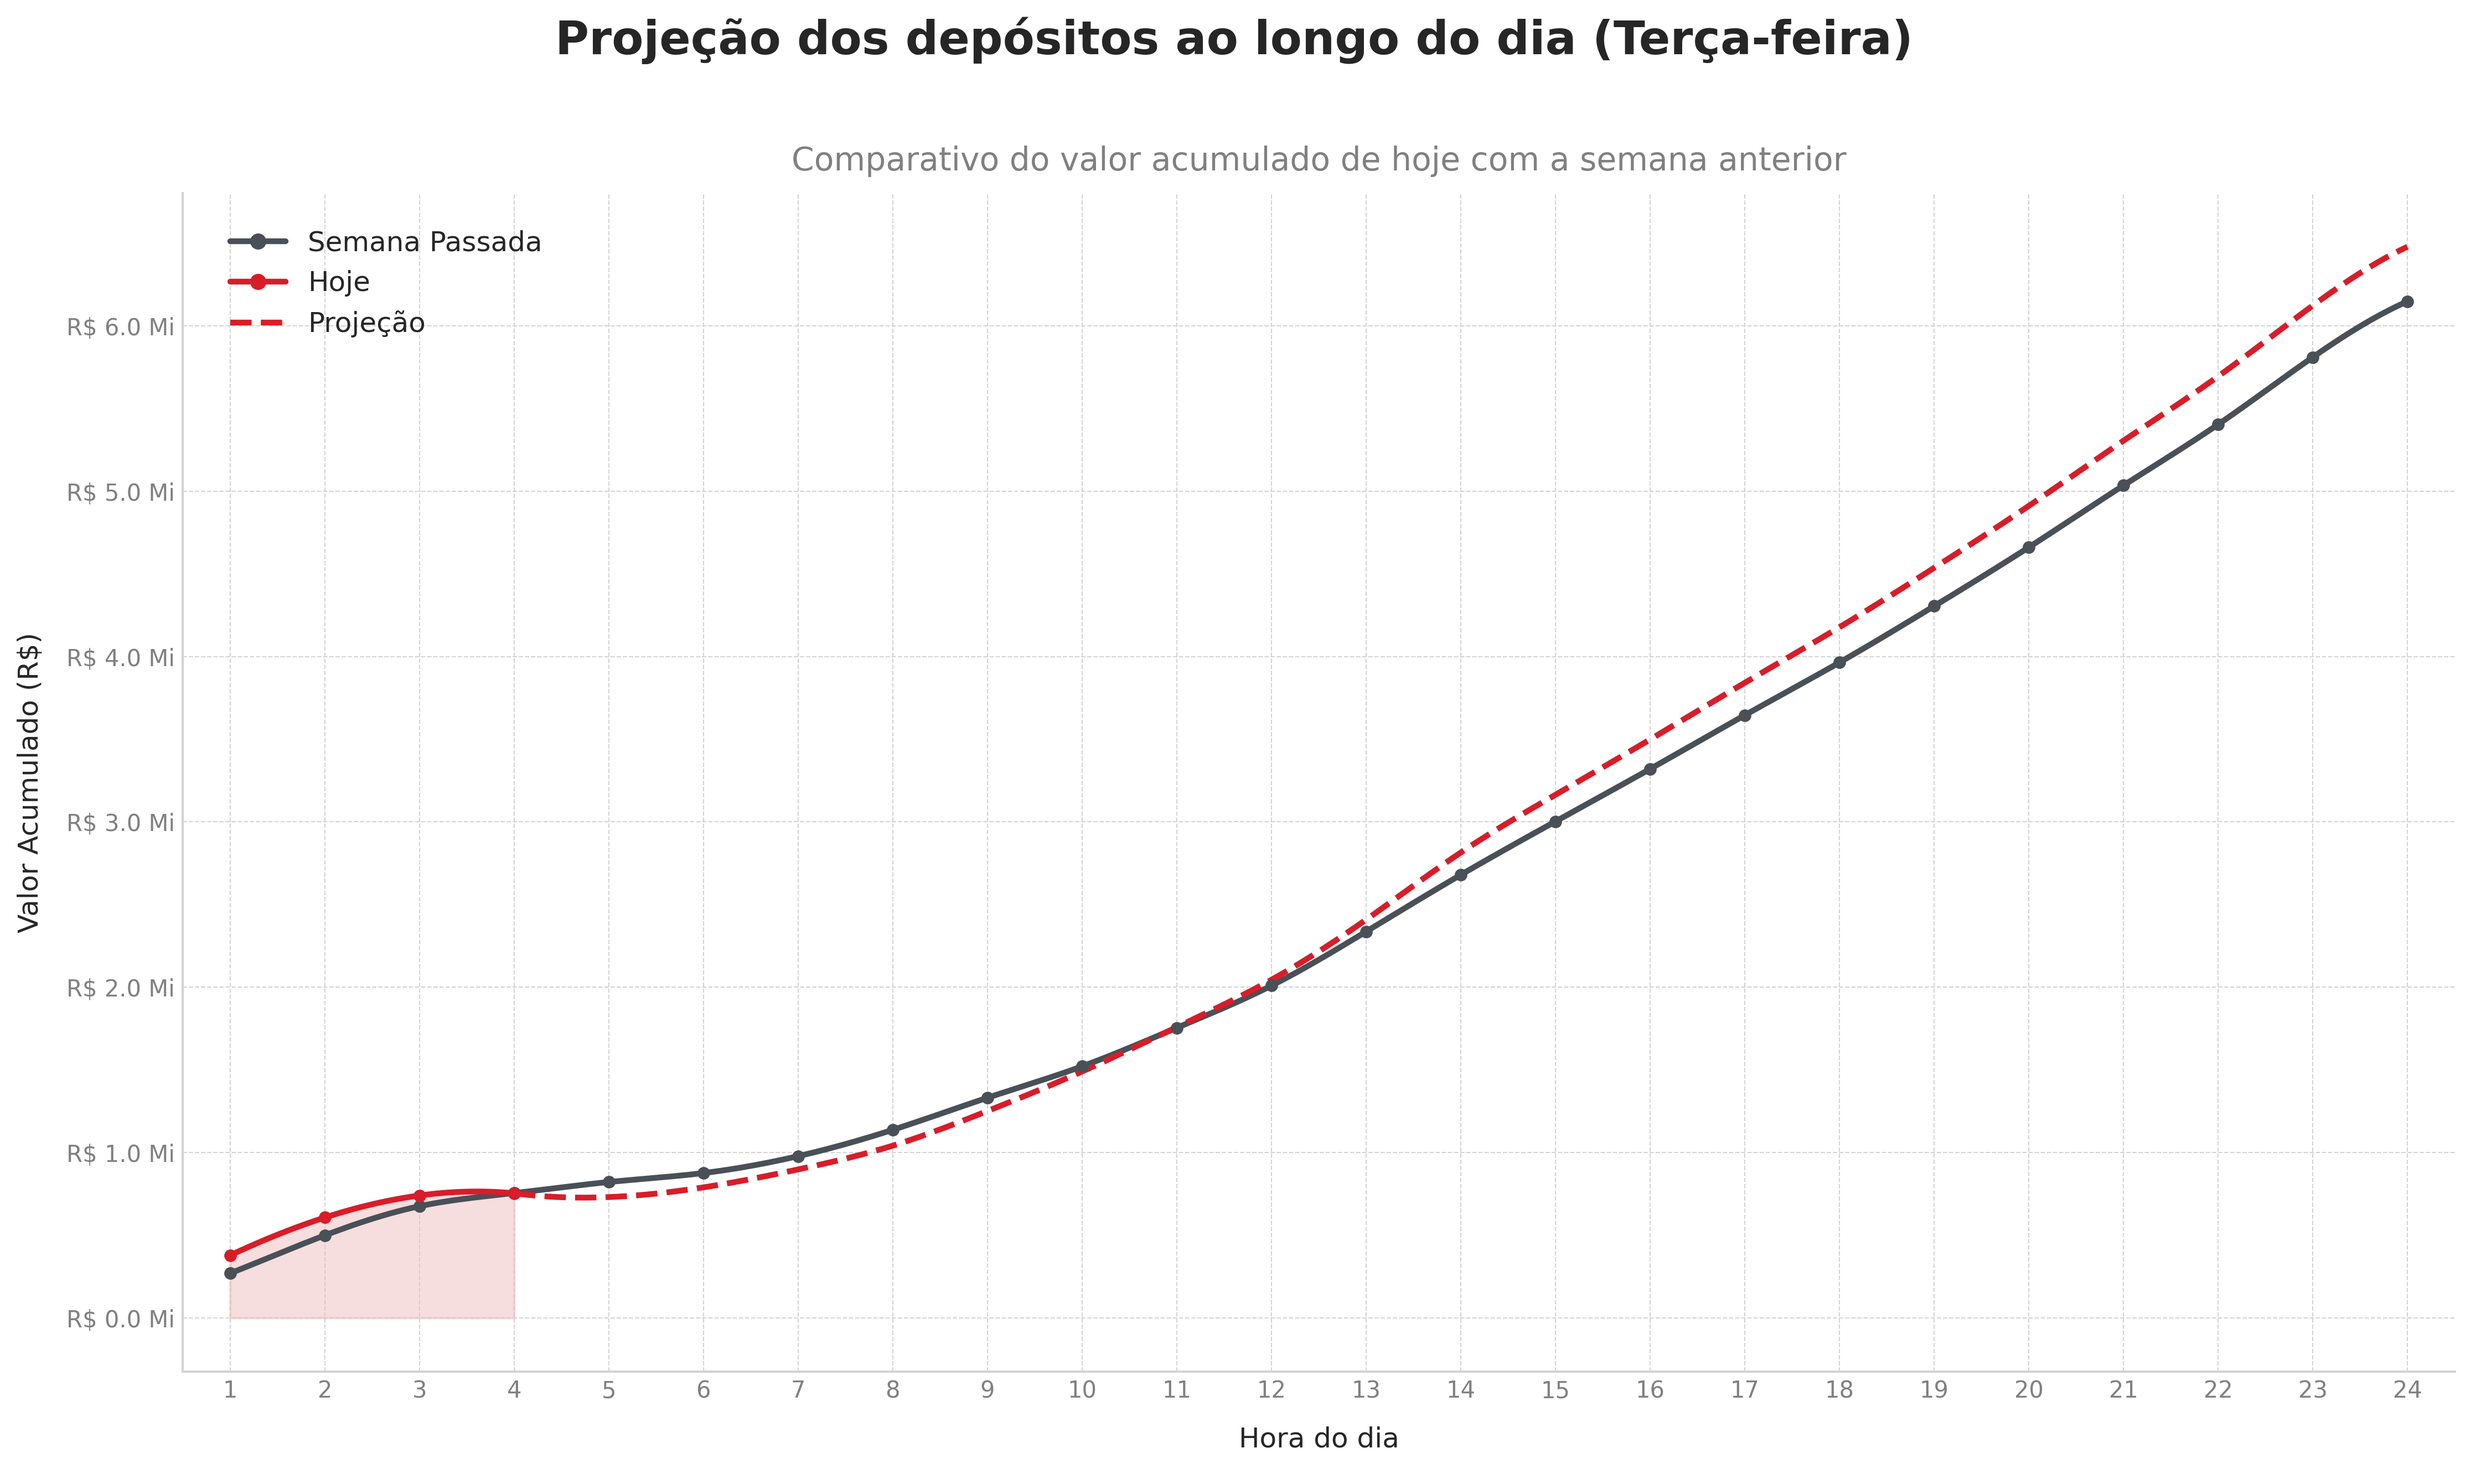
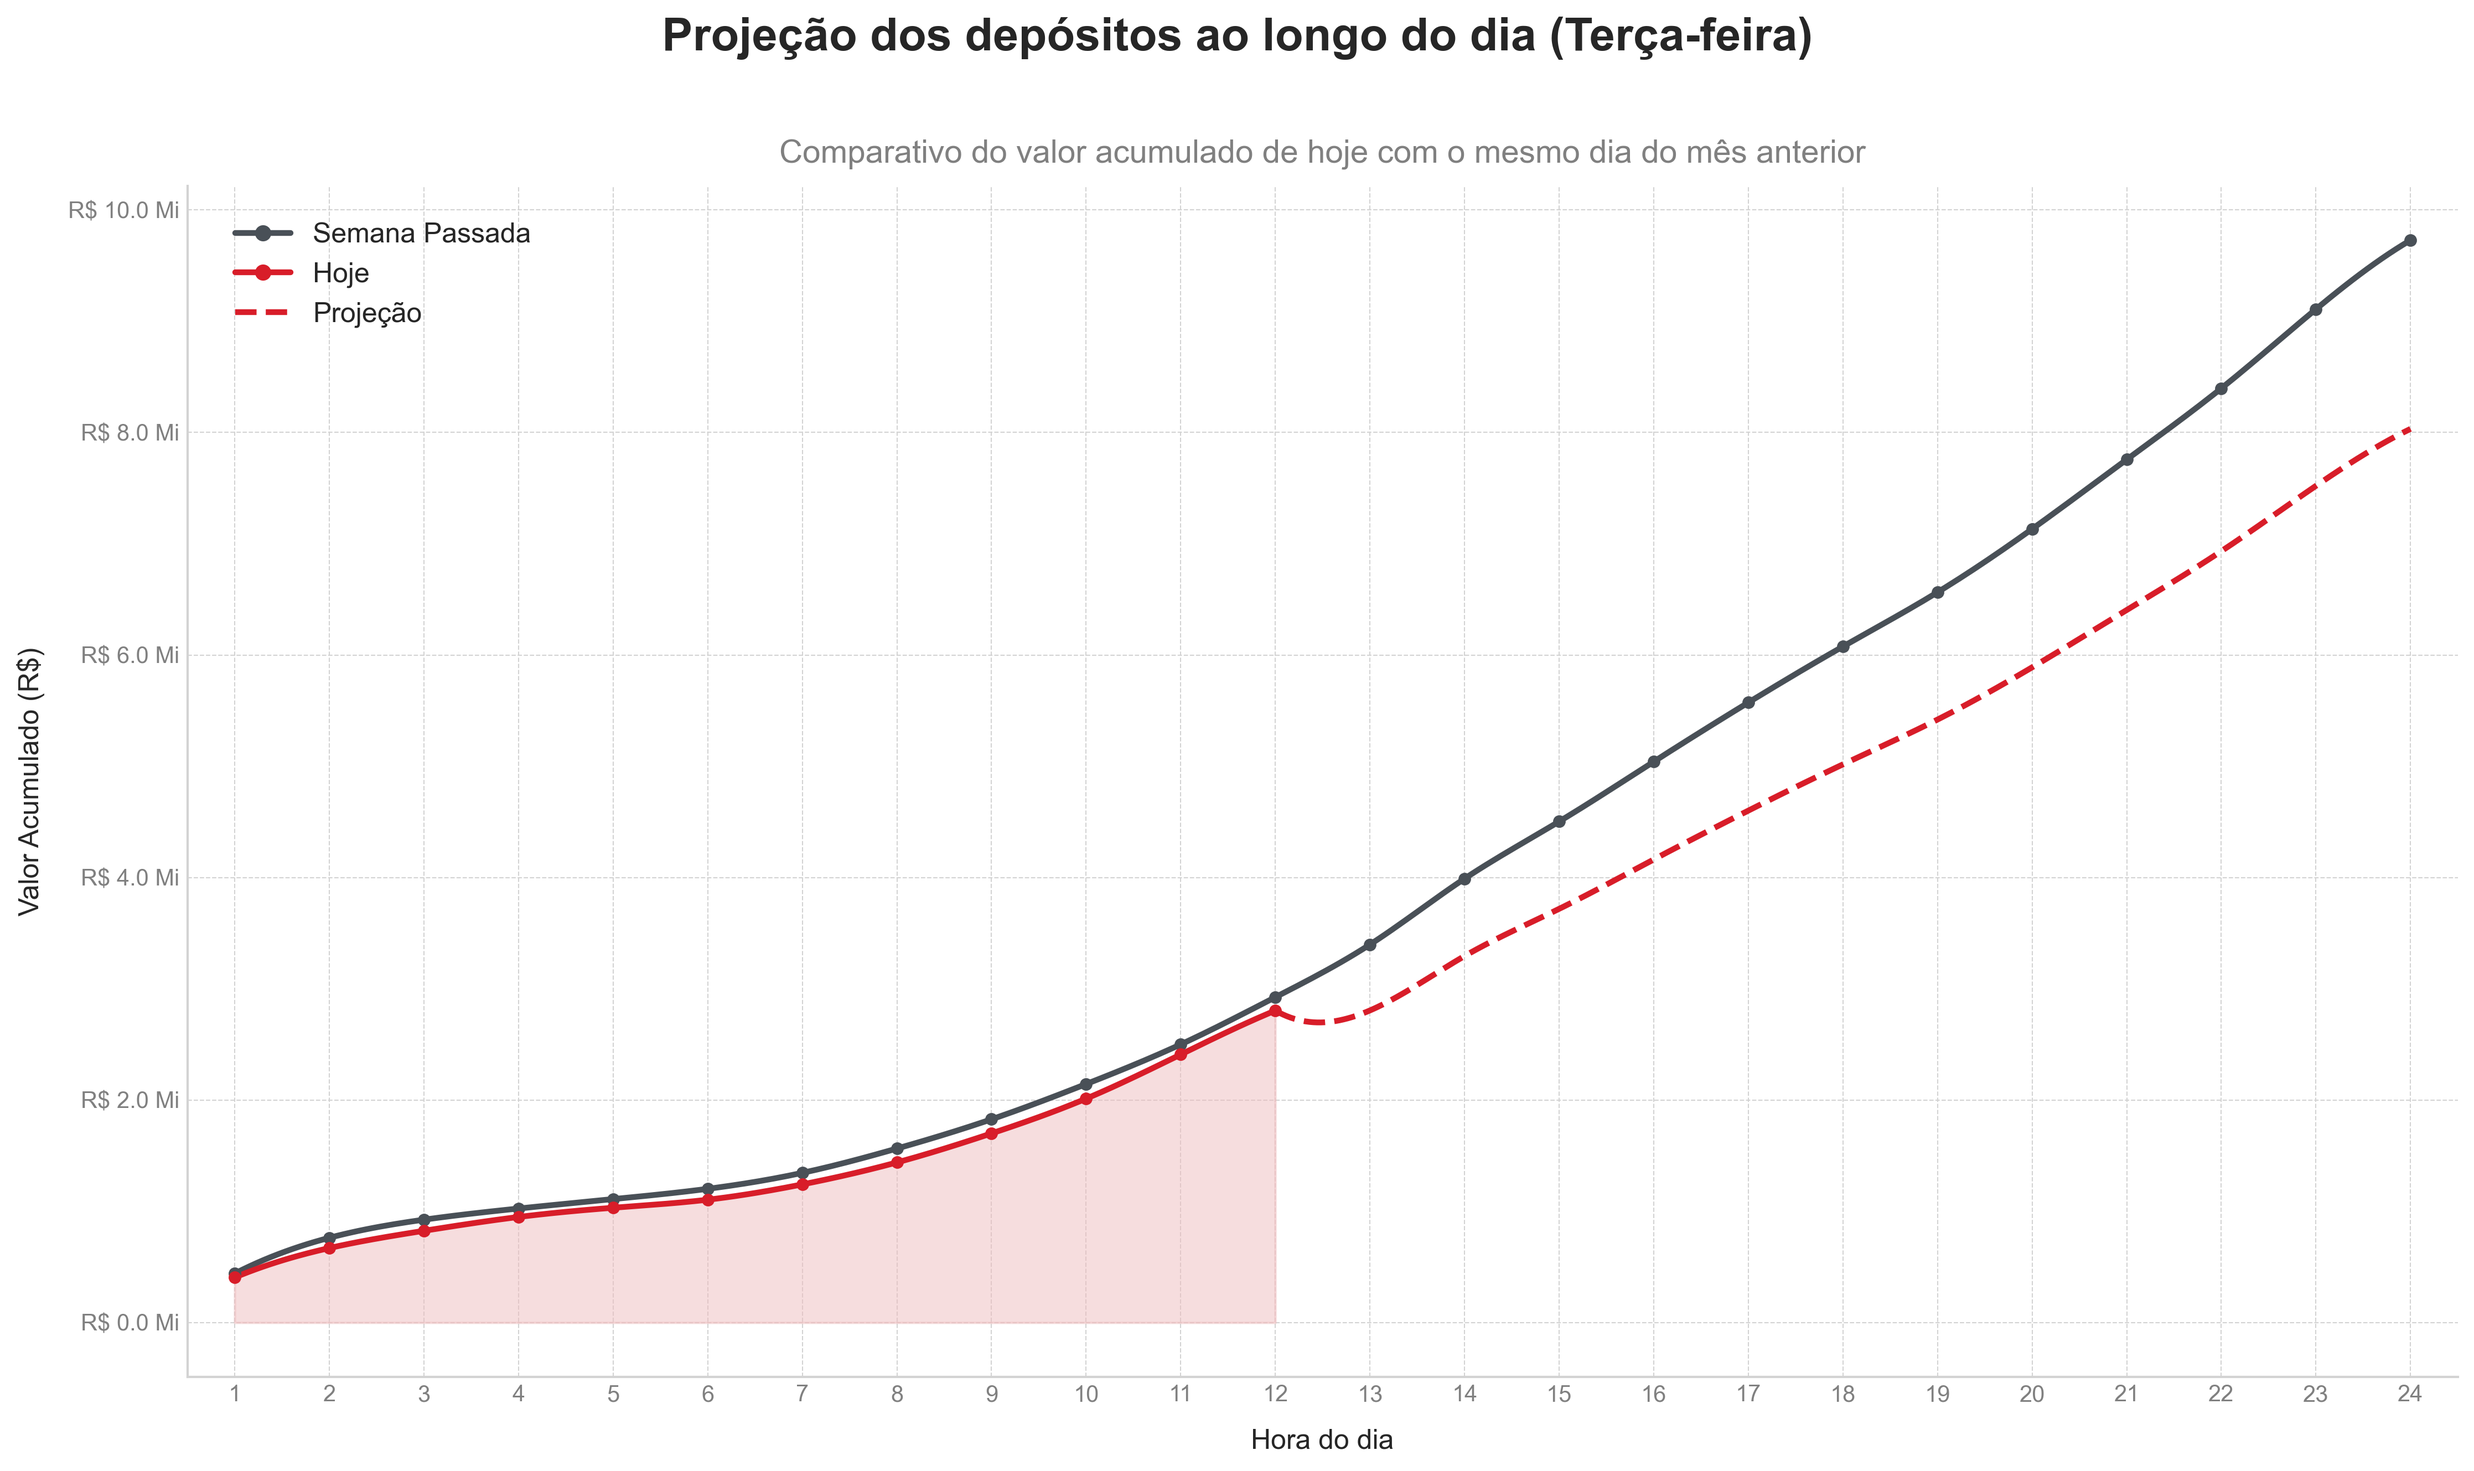
feat: mudanças para usar redshift

diff --git a/appconfig.py b/appconfig.py
@@ -11,54 +11,122 @@ group by empresa, tipo_frete
 order by empresa"""
 
 QUERY_PROJECAO_ZEROUM = """WITH
-    parametros AS (
-        SELECT
-            CURRENT_DATE AS dia_hoje,
-            (CURRENT_DATE - INTERVAL '7 day') AS dia_semana_anterior,
-            COALESCE((
-                SELECT EXTRACT(HOUR FROM MAX(d.date + d.hora))::int
-                FROM inplay.fact_deposits_withdraws_summarized d
-                WHERE d.date = CURRENT_DATE AND d.tipo = 'deposit'
-            ), 0) AS hora_corte
-    ),
-    dados_hoje AS (
-        SELECT
-            EXTRACT(HOUR FROM (d.date + d.hora)) AS hora_numero,
-            SUM(SUM(d.amount)) OVER (ORDER BY EXTRACT(HOUR FROM (d.date + d.hora))) AS acumulado_hoje
-        FROM inplay.fact_deposits_withdraws_summarized d, parametros p
+parametros AS (
+    SELECT
+        TRUNC(CONVERT_TIMEZONE('America/Sao_Paulo', GETDATE())) AS dia_hoje,
+        (TRUNC(CONVERT_TIMEZONE('America/Sao_Paulo', GETDATE())) - INTERVAL '1 month')::DATE AS dia_mes_anterior
+),
+hora_corte_calc AS (
+    SELECT COALESCE((
+        SELECT EXTRACT(HOUR FROM MAX((d.date || ' ' || d.hora)::timestamp))::int
+        FROM inplay.fact_deposits_withdraws_summarized d
+        CROSS JOIN parametros p
         WHERE d.date = p.dia_hoje AND d.tipo = 'deposit'
-        GROUP BY 1
-    ),
-    dados_semana_anterior AS (
-        SELECT
-            EXTRACT(HOUR FROM (d.date + d.hora)) AS hora_numero,
-            SUM(SUM(d.amount)) OVER (ORDER BY EXTRACT(HOUR FROM (d.date + d.hora))) AS acumulado_semana_anterior
-        FROM inplay.fact_deposits_withdraws_summarized d, parametros p
-        WHERE d.date = p.dia_semana_anterior AND d.tipo = 'deposit'
-        GROUP BY 1
-    ),
-    fator_projecao AS (
-        SELECT
-            COALESCE((
-                (SELECT acumulado_hoje FROM dados_hoje h, parametros p WHERE h.hora_numero = p.hora_corte)
-                /
-                NULLIF((SELECT acumulado_semana_anterior FROM dados_semana_anterior s, parametros p WHERE s.hora_numero = p.hora_corte), 0)
-            ), 1) AS fator
-    )
+    ), 0) AS hora_corte
+),
+dados_hoje AS (
+    SELECT
+        EXTRACT(HOUR FROM (d.date || ' ' || d.hora)::timestamp) AS hora_numero,
+        SUM(SUM(d.amount)) OVER (ORDER BY EXTRACT(HOUR FROM (d.date || ' ' || d.hora)::timestamp) ROWS UNBOUNDED PRECEDING) AS acumulado_hoje
+    FROM inplay.fact_deposits_withdraws_summarized d
+    CROSS JOIN parametros p
+    WHERE d.date = p.dia_hoje AND d.tipo = 'deposit'
+    GROUP BY 1
+),
+dados_mes_anterior AS (
+    SELECT
+        EXTRACT(HOUR FROM (d.date || ' ' || d.hora)::timestamp) AS hora_numero,
+        SUM(SUM(d.amount)) OVER (ORDER BY EXTRACT(HOUR FROM (d.date || ' ' || d.hora)::timestamp) ROWS UNBOUNDED PRECEDING) AS acumulado_mes_anterior
+    FROM inplay.fact_deposits_withdraws_summarized d
+    CROSS JOIN parametros p
+    WHERE d.date = p.dia_mes_anterior AND d.tipo = 'deposit'
+    GROUP BY 1
+),
+fator_projecao AS (
+    SELECT
+        COALESCE((
+            (SELECT MAX(acumulado_hoje) FROM dados_hoje CROSS JOIN hora_corte_calc hc WHERE hora_numero = hc.hora_corte)
+            /
+            NULLIF((SELECT MAX(acumulado_mes_anterior) FROM dados_mes_anterior CROSS JOIN hora_corte_calc hc WHERE hora_numero = hc.hora_corte), 0)
+        ), 1) AS fator
+),
+horas_gs AS (
+    SELECT 0 AS hora_numero UNION ALL SELECT 1 UNION ALL SELECT 2 UNION ALL SELECT 3 UNION ALL
+    SELECT 4 UNION ALL SELECT 5 UNION ALL SELECT 6 UNION ALL SELECT 7 UNION ALL
+    SELECT 8 UNION ALL SELECT 9 UNION ALL SELECT 10 UNION ALL SELECT 11 UNION ALL
+    SELECT 12 UNION ALL SELECT 13 UNION ALL SELECT 14 UNION ALL SELECT 15 UNION ALL
+    SELECT 16 UNION ALL SELECT 17 UNION ALL SELECT 18 UNION ALL SELECT 19 UNION ALL
+    SELECT 20 UNION ALL SELECT 21 UNION ALL SELECT 22 UNION ALL SELECT 23
+)
+SELECT
+    DATEADD(hour, gs.hora_numero, p.dia_hoje::timestamp) AS hora,
+    h.acumulado_hoje AS "AtualDepositoHoje",
+    s.acumulado_mes_anterior AS "MaiorDepositoMesAnterior",
+    CASE
+        WHEN gs.hora_numero > hc.hora_corte THEN
+            s.acumulado_mes_anterior * fp.fator
+        ELSE
+            h.acumulado_hoje
+    END AS projecao
+FROM
+    horas_gs gs
+    LEFT JOIN dados_hoje h ON gs.hora_numero = h.hora_numero
+    LEFT JOIN dados_mes_anterior s ON gs.hora_numero = s.hora_numero
+    CROSS JOIN parametros p
+    CROSS JOIN hora_corte_calc hc
+    CROSS JOIN fator_projecao fp
+ORDER BY
+    gs.hora_numero"""
+
+QUERY_PROJECAO_ENERGIA = """WITH
+parametros AS (
+SELECT
+    CURRENT_DATE AS dia_hoje,
+    (CURRENT_DATE - INTERVAL '1 month') AS dia_mes_anterior,
+    COALESCE((
+        SELECT EXTRACT(HOUR FROM MAX(d.date + d.hora))::int
+        FROM inplay.fact_deposits_withdraws_summarized d
+        WHERE d.date = CURRENT_DATE AND d.tipo = 'deposit'
+    ), 0) AS hora_corte
+),
+dados_hoje AS (
+    SELECT
+        EXTRACT(HOUR FROM (d.date + d.hora)) AS hora_numero,
+        SUM(SUM(d.amount)) OVER (ORDER BY EXTRACT(HOUR FROM (d.date + d.hora))) AS acumulado_hoje
+    FROM inplay.fact_deposits_withdraws_summarized d, parametros p
+    WHERE d.date = p.dia_hoje AND d.tipo = 'deposit'
+    GROUP BY 1
+),
+dados_mes_anterior AS (
+    SELECT
+        EXTRACT(HOUR FROM (d.date + d.hora)) AS hora_numero,
+        SUM(SUM(d.amount)) OVER (ORDER BY EXTRACT(HOUR FROM (d.date + d.hora))) AS acumulado_mes_anterior
+    FROM inplay.fact_deposits_withdraws_summarized d, parametros p
+    WHERE d.date = p.dia_mes_anterior AND d.tipo = 'deposit'
+    GROUP BY 1
+),
+fator_projecao AS (
+    SELECT
+        COALESCE((
+            (SELECT acumulado_hoje FROM dados_hoje h, parametros p WHERE h.hora_numero = p.hora_corte)
+            /
+            NULLIF((SELECT acumulado_mes_anterior FROM dados_mes_anterior s, parametros p WHERE s.hora_numero = p.hora_corte), 0)
+        ), 1) AS fator
+)
 SELECT
     p.dia_hoje + (gs.hora_numero || ' hours')::interval AS hora,
     h.acumulado_hoje AS "AtualDepositoHoje",
-    s.acumulado_semana_anterior AS "MaiorDeposito7DiasAtras",
+    s.acumulado_mes_anterior AS "MaiorDepositoMesAnterior",
     CASE
         WHEN gs.hora_numero > p.hora_corte THEN
-            s.acumulado_semana_anterior * (SELECT fator FROM fator_projecao)
+            s.acumulado_mes_anterior * (SELECT fator FROM fator_projecao)
         ELSE
             h.acumulado_hoje
     END AS projecao
 FROM
     generate_series(0, 23) AS gs(hora_numero)
     LEFT JOIN dados_hoje h ON gs.hora_numero = h.hora_numero
-    LEFT JOIN dados_semana_anterior s ON gs.hora_numero = s.hora_numero
+    LEFT JOIN dados_mes_anterior s ON gs.hora_numero = s.hora_numero
     CROSS JOIN parametros p
 ORDER BY
     gs.hora_numero"""

diff --git a/wrapper.py b/wrapper.py
@@ -34,5 +34,15 @@ class DataWrapper:
         conn = start_connection_zeroum()           
         df = pd.read_sql_query(cfg.QUERY_PROJECAO_ZEROUM, conn)
         df = pd.DataFrame(df)
+        df.rename(columns={'atualdepositohoje': 'AtualDepositoHoje', 'maiordepositomesanterior': 'MaiorDepositoMesAnterior'}, inplace=True)
+        conn.close()
+        return df
+    
+    @staticmethod
+    def get_projecao_deposito_energia():
+        conn = start_connection_zeroum()           
+        df = pd.read_sql_query(cfg.QUERY_PROJECAO_ENERGIA, conn)
+        df = pd.DataFrame(df)
+        df.rename(columns={'atualdepositohoje': 'AtualDepositoHoje', 'maiordepositomesanterior': 'MaiorDepositoMesAnterior'}, inplace=True)
         conn.close()
         return df

diff --git a/projecao_depositos_energia.py b/projecao_depositos_energia.py
@@ -106,7 +106,7 @@ def criar_grafico_projecao():
     
     fig.tight_layout(rect=[0, 0, 1, 0.96]) 
     
-    plt.savefig('grafico_projecao_deposito.png', dpi=300, bbox_inches='tight', facecolor='white')
+    plt.savefig('grafico_projecao_deposito_energia.png', dpi=300, bbox_inches='tight', facecolor='white')
 
     plt.show()
 
